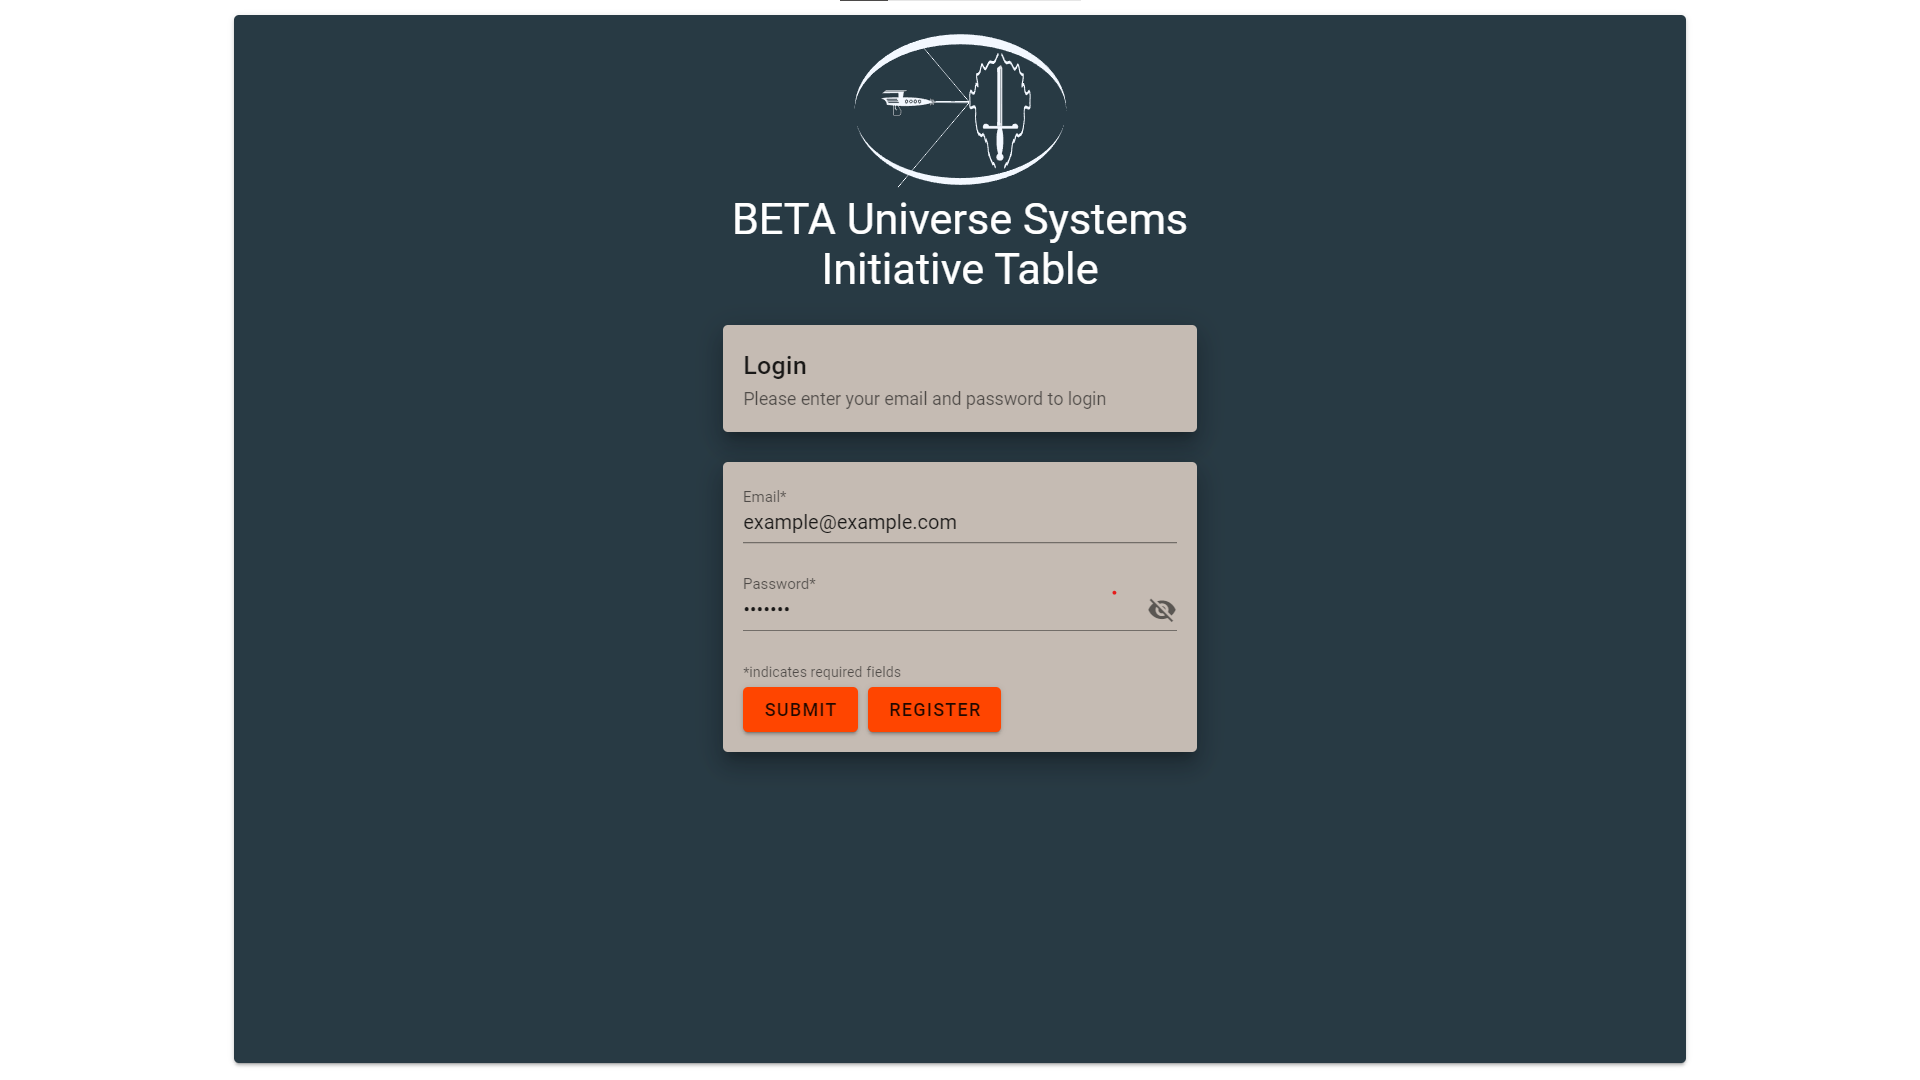
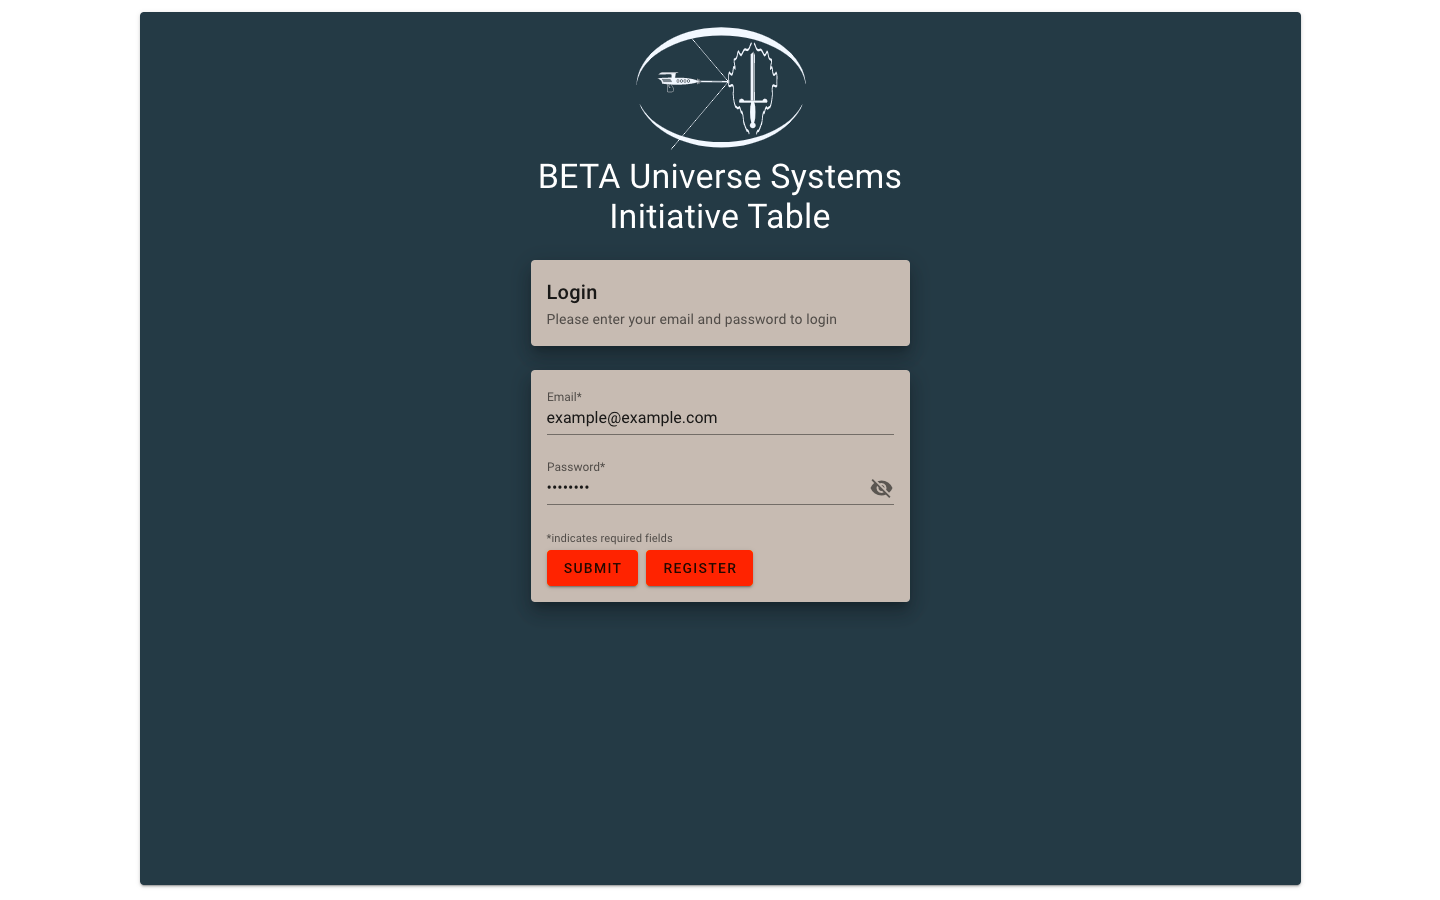
Fixed title, login image

Changed region(s): [[0.3438, 0.0311, 0.6562, 0.7156], [0.875, 0.0, 0.9062, 0.9956], [0.0938, 0.0, 0.125, 0.9956]]

diff --git a/_includes/head.html b/_includes/head.html
@@ -13,5 +13,5 @@
     <meta name="msapplication-TileColor" content="#00aba9">
     <meta name="msapplication-config" content="/favicons/browserconfig.xml?v=KmnEPe0ybr">
     <meta name="theme-color" content="#ffffff">
-    <title>{{ title | escape }}</title>
+    <title>BETA Universe Systems Initiative Table Application</title>
 </head>
